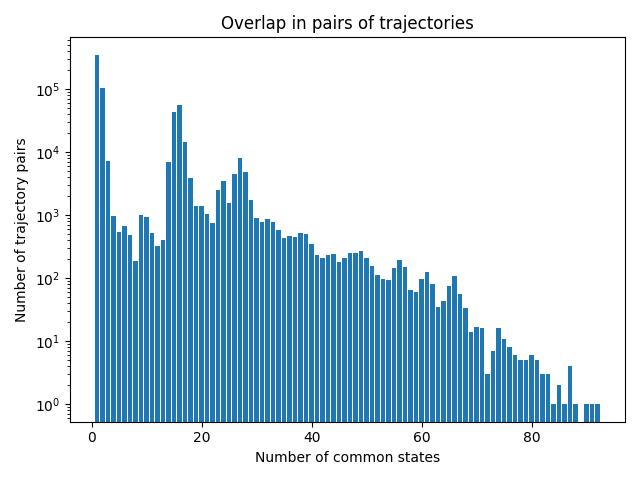
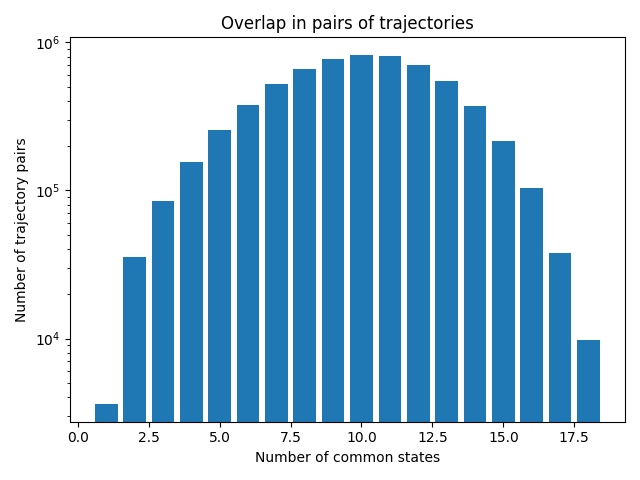
new plots

diff --git a/trace/visuals/grids.py b/trace/visuals/grids.py
@@ -1,0 +1,58 @@
+import numpy as np
+from matplotlib import pyplot as plt
+
+from trace.core import TrajectoryManager
+from trace.visuals.utils import env_frame
+
+
+def grid_trajectories(manager:TrajectoryManager, abstr_frame:bool=False,
+                      title: str|None=None, alpha: float|int=0.1, color: str='red'):
+
+    frame = plt.imread('plots/sketches/dst_frame_abstr.png') if abstr_frame else env_frame(manager.metadata['env_id'])
+    h, w = np.array(manager.metadata['observations_high'])[:2]
+    fig, ax = plt.subplots()
+    ax.imshow(frame, extent=(0, w, 0, h), origin='lower')
+
+    for obs, acs, _ in zip(*manager.conditioning_features(per_point=False)):
+
+        if len(obs) < 2: continue
+
+        x_obs, y_obs = [], []
+        x_acs, y_acs = [], []
+
+        for coords, a in zip(obs, acs):
+            y, x = coords[:2]
+            x_obs.append(x)
+            y_obs.append(y)
+
+            if a == 0:
+                x_acs.append(x)
+                y_acs.append(y)
+
+        ax.plot(x_obs, y_obs, alpha=alpha, linewidth=1.5, color=color)
+
+        if 'minetrain' in manager.metadata['env_id']:
+            ax.scatter(x_acs, y_acs, marker='x', color='blue', s=20)
+
+    ax.set(xlim=(0, w), ylim=(h, 0), aspect='equal')
+    ax.axis('off')
+    if title: ax.set_title(title)
+    fig.tight_layout(rect=(0, 0, 1, 1))
+    return fig
+
+
+def quantization_grid(obs:list, ranges:list, metadata:dict, abstr_frame:bool=False):
+    frame = plt.imread('plots/sketches/dst_frame_abstr.png') if abstr_frame else env_frame(metadata['env_id'])
+    h, w = np.array(metadata['observations_high'])[:2]
+    fig, ax = plt.subplots()
+    ax.imshow(frame, extent=(0, w, 0, h), origin='lower')
+    x, y = [coords[0] for traj in obs for coords in traj], [coords[1] for traj in obs for coords in traj]
+
+
+    ax.scatter(x, y, marker='o', color='yellow', s=1, alpha=0.1)
+    ax.vlines(ranges[0], 0, 1, linestyle='dashed', color='blue', linewidth=0.5)
+    ax.hlines(ranges[1], 0, 1, linestyle='dashed', color='blue', linewidth=0.5)
+    ax.set(xlim=(0, w), ylim=(h, 0), aspect='equal')
+    plt.axis('off')
+    fig.tight_layout()
+    return fig